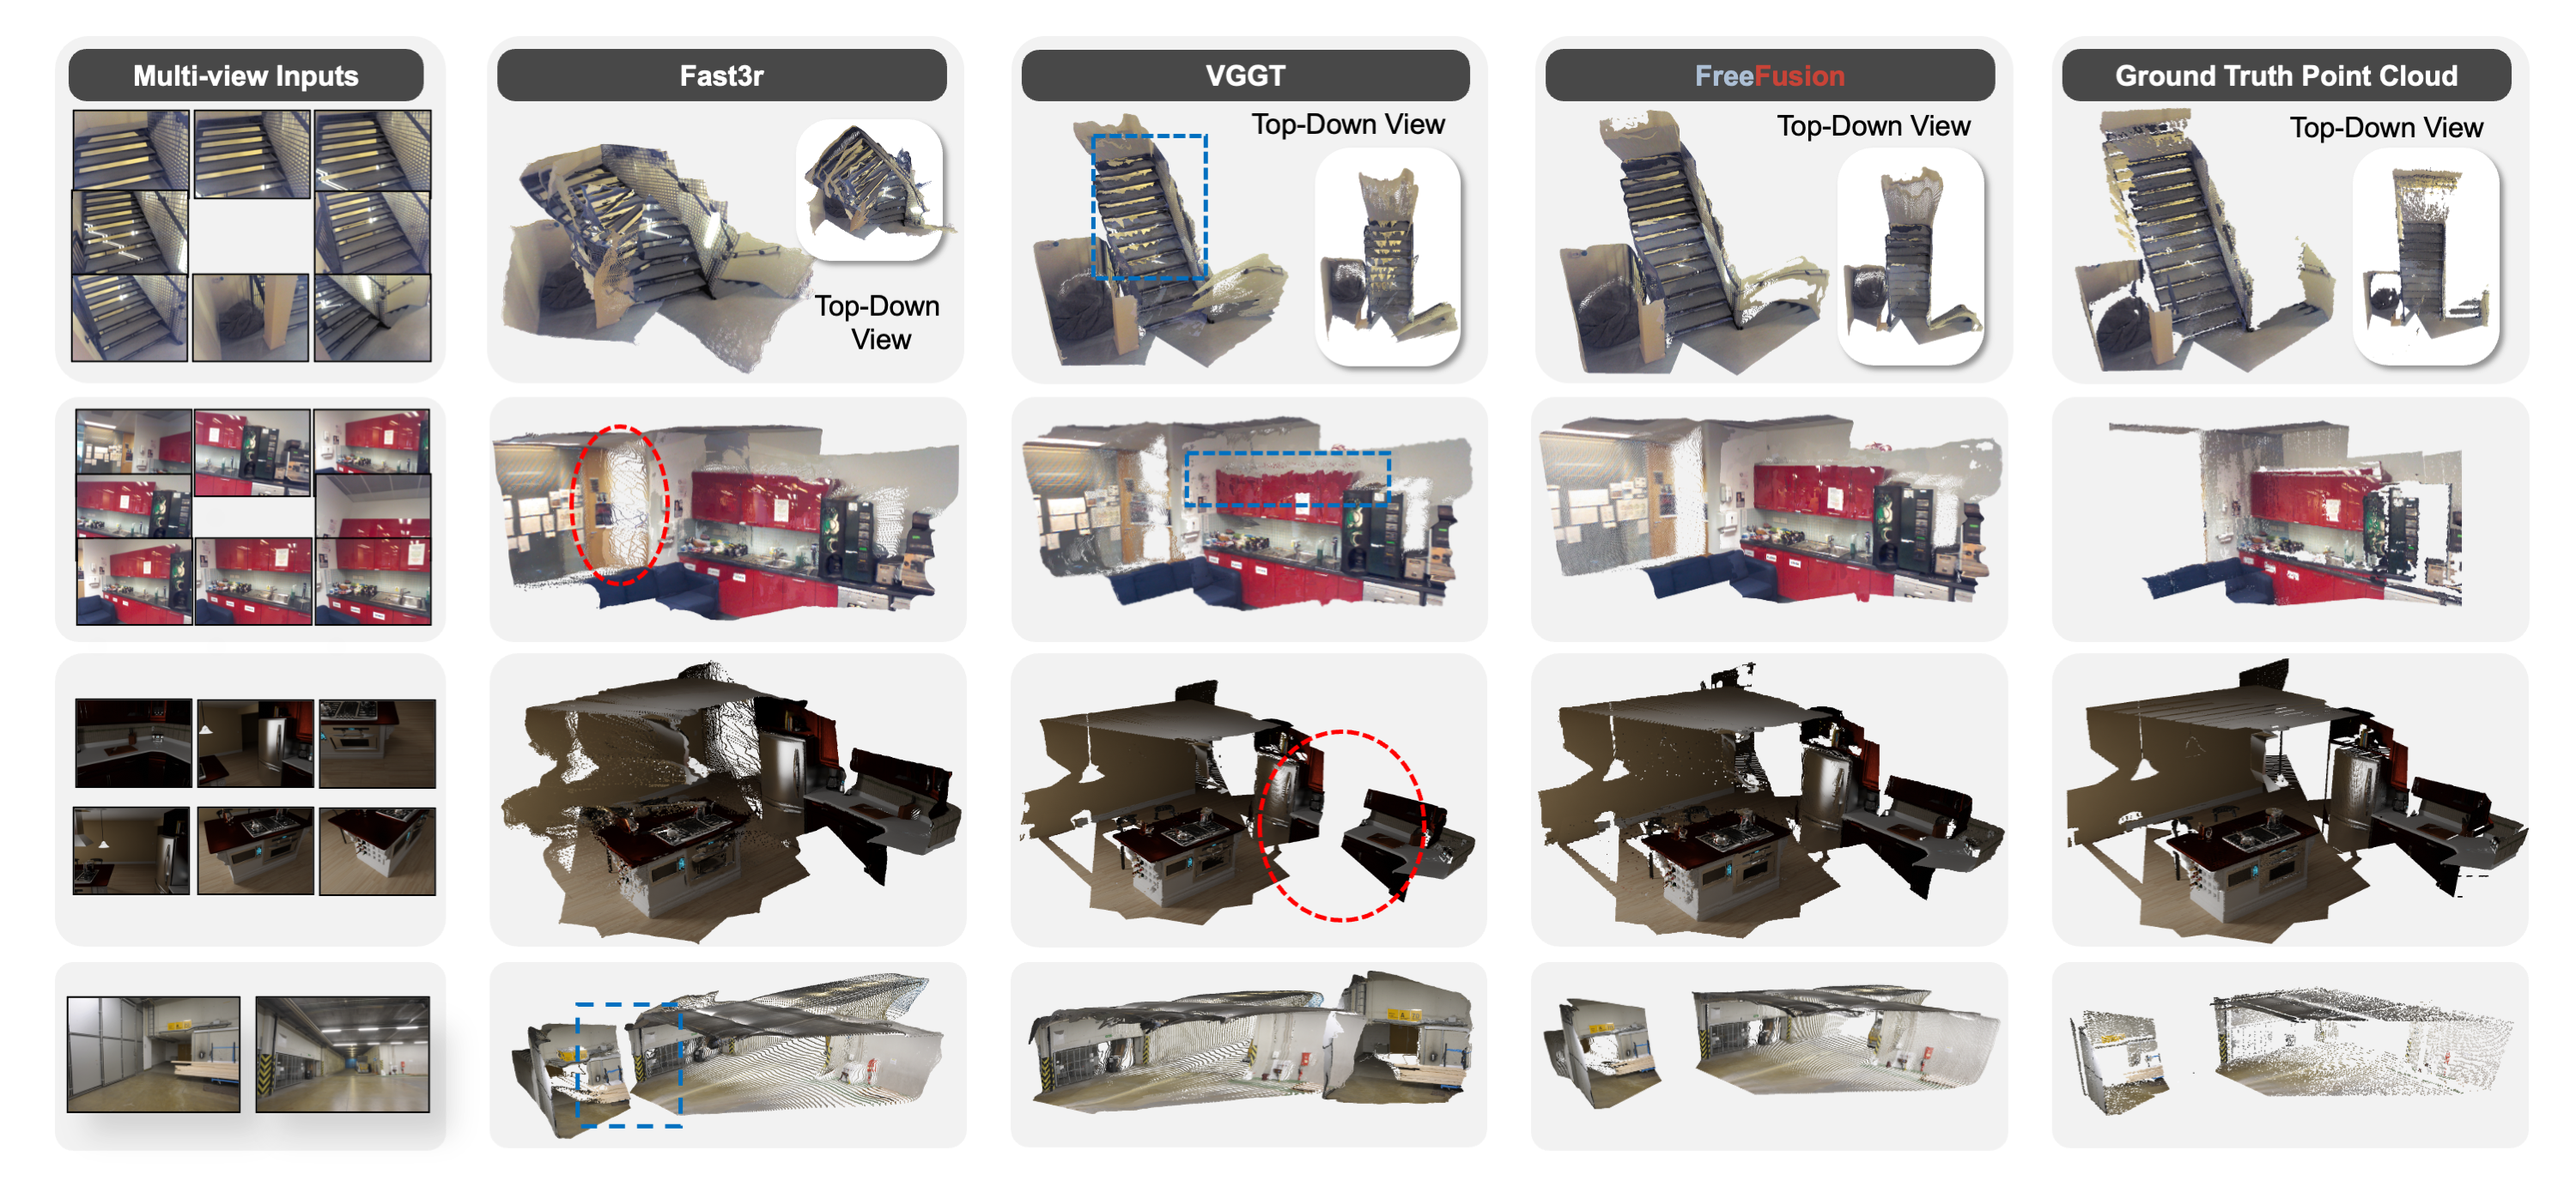
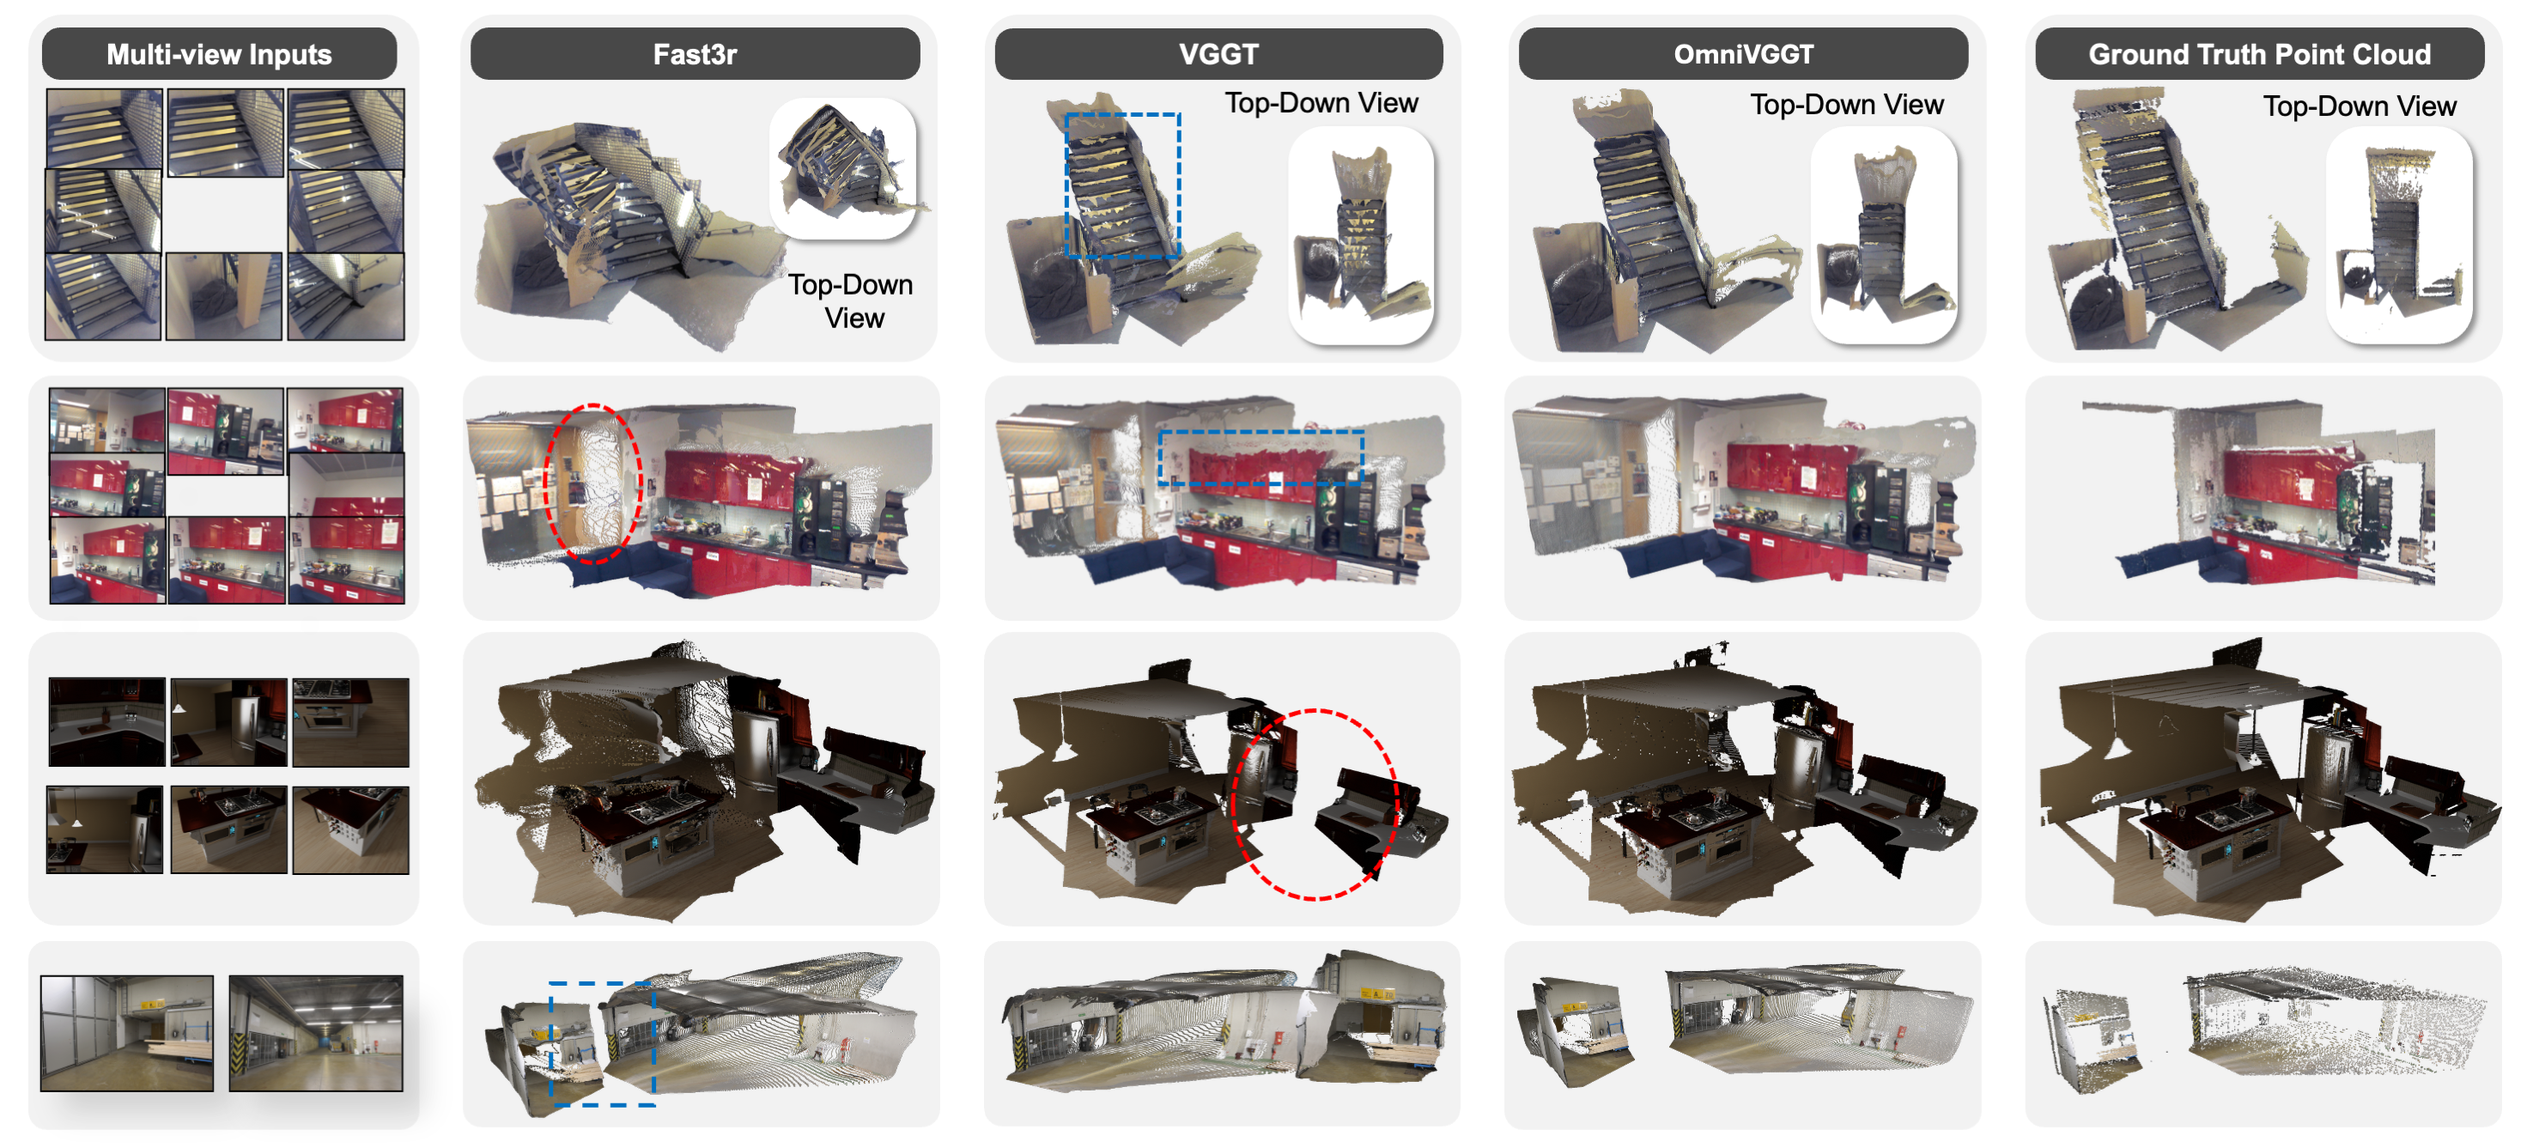
update name

diff --git a/index.html b/index.html
@@ -3,7 +3,7 @@
 <head>
     <meta charset="UTF-8">
     <meta name="viewport" content="width=device-width, initial-scale=1.0">
-    <title>FreeFusion: Free Lunch from Auxiliary Inputs for 3D Reconstruction</title>
+    <title>OmniVGGT: Omni-Modality Driven Visual Geometry Grounded Transformer</title>
     <link rel="icon" type="image/png" href="images/icon.png">
     <!-- Model Viewer for 3D visualization -->
     <script type="module" src="https://ajax.googleapis.com/ajax/libs/model-viewer/3.5.0/model-viewer.min.js"></script>
@@ -1013,10 +1013,10 @@
     <div class="container">
         <header>
             <div class="logo-container">
-                <img src="images/logo.png" alt="FreeFusion Logo" style="max-width: 200px; height: auto;">
+                <img src="images/logo.png" alt="OmniVGGT Logo" style="max-width: 200px; height: auto;">
             </div>
             <h1>
-                <span class="project-name"><span style="color: rgb(38, 89, 146);">Free</span><span style="color: rgb(199, 64, 52);">Fusion</span></span><span class="title-divider">:</span> Free Lunch from Auxiliary Inputs for 3D Reconstruction
+                <span class="project-name"><span style="color: rgb(38, 89, 146);">Omni</span><span style="color: rgb(199, 64, 52);">VGGT</span></span><span class="title-divider">:</span> Omni-Modality Driven Visual Geometry Grounded Transformer
             </h1>
             
             
@@ -1072,14 +1072,14 @@
                 <div class="highlight-box">
                     <p style="font-size: 1.1em; line-height: 1.8;">
                         General 3D foundation models have started to lead the trend of unifying diverse vision tasks, yet most assume RGB-only inputs and ignore readily available geometric cues (e.g., camera intrinsics, poses, and depth maps). 
-                        To address this issue, we introduce FreeFusion, a novel framework that can effectively benefit from an arbitrary number of auxiliary geometric modalities during both training and inference.
+                        To address this issue, we introduce OmniVGGT, a novel framework that can effectively benefit from an arbitrary number of auxiliary geometric modalities during both training and inference.
                         In our framework, a <strong>GeoAdapter</strong> is proposed to encode depth and camera intrinsics/extrinsics into a spatial foundation model.
                         It employs zero-initialized convolutions to progressively inject geometric information without disrupting the foundation model's representation space. 
                         Additionally, a <strong>Stochastic Multimodal Fusion</strong> regimen is proposed, which randomly samples modality subsets per instance during training. 
                         This enables an arbitrary number of modality inputs during testing and promotes learning robust spatial representations instead of overfitting to auxiliary cues. 
-                        Comprehensive experiments on several downstream tasks demonstrate that FreeFusion outperforms prior methods with auxiliary inputs and achieves state-of-the-art results even with RGB-only input. 
-                        To further highlight its practical utility, we integrated FreeFusion into <strong>vision-language-action (VLA) models</strong>. 
-                        The enhanced VLA model by FreeFusion achieves state-of-the-art performance across three simulation benchmarks and real-world manipulation tasks, showcasing strong robustness to clutter, spatial prompts, height awareness, and scale variation.
+                        Comprehensive experiments on several downstream tasks demonstrate that OmniVGGT outperforms prior methods with auxiliary inputs and achieves state-of-the-art results even with RGB-only input. 
+                        To further highlight its practical utility, we integrated OmniVGGT into <strong>vision-language-action (VLA) models</strong>. 
+                        The enhanced VLA model by OmniVGGT achieves state-of-the-art performance across three simulation benchmarks and real-world manipulation tasks, showcasing strong robustness to clutter, spatial prompts, height awareness, and scale variation.
                     </p>
                 </div>
             </div>
@@ -1089,7 +1089,7 @@
                 <div class="demo-container">
                     <img src="images/teaser.png" alt="Teaser">
                     <p class="image-caption">
-                        FreeFusion, a model that can effectively benefit from an arbitrary number of auxiliary geometric modalities during both training and inference.
+                        OmniVGGT, a model that can effectively benefit from an arbitrary number of auxiliary geometric modalities during both training and inference.
                     </p>
                 </div>
                 
@@ -1101,15 +1101,15 @@
                 <div class="feature-grid">
                     <div class="feature-card">
                         <h3>🔧 GeoAdapter for Stochastic Multimodal Inputs</h3>
-                        <p>FreeFusion uses a light-weight GeoAdapter that supports arbitrary numbers of input images, auxiliary modalities, and their combinations.</p>
+                        <p>OmniVGGT uses a light-weight GeoAdapter that supports arbitrary numbers of input images, auxiliary modalities, and their combinations.</p>
                     </div>
                     <div class="feature-card">
                         <h3>📊 Stochastic Multimodal Fusion</h3>
-                        <p>We adopt a rule-based stochastic training strategy for FreeFusion, ensuring its robustness and generalization when receiving varying numbers and combinations of modalities at test time.</p>
+                        <p>We adopt a rule-based stochastic training strategy for OmniVGGT, ensuring its robustness and generalization when receiving varying numbers and combinations of modalities at test time.</p>
                     </div>
                     <div class="feature-card">
                         <h3>🔌 Enhancing VLA Model Performance</h3>
-                        <p>We integrate FreeFusion with vision-language-action (VLA) models. Additional auxiliary information provides the VLA model with richer spatial understanding, thereby improving its success rate across various VLA tasks.</p>
+                        <p>We integrate OmniVGGT with vision-language-action (VLA) models. Additional auxiliary information provides the VLA model with richer spatial understanding, thereby improving its success rate across various VLA tasks.</p>
                     </div>
                 </div>
             </div>
@@ -1118,16 +1118,16 @@
             <div class="section">
                 <h2 class="section-title">Architecture</h2>
                 <div class="demo-container">
-                    <img src="images/overview.png" alt="FreeFusion Framework">
+                    <img src="images/overview.png" alt="OmniVGGT Framework">
                     <p class="image-caption">
-                        Overview of FreeFusion. 
+                        Overview of OmniVGGT. 
                     </p>
                 </div>
 
                 <div class="architecture-section">
                     <p>
                     Our goal is to design an enhanced spatial foundation model that not only reconstructs scenes from images but also accepts an arbitrary number of corresponding camera parameters and depth information as auxiliary inputs to guide more accurate 3D scene reconstruction.
-                    FreeFusion takes as input a set of images together with an arbitrary number of corresponding camera parameters (extrinsics and intrinsics) or depth maps. 
+                    OmniVGGT takes as input a set of images together with an arbitrary number of corresponding camera parameters (extrinsics and intrinsics) or depth maps. 
                     Camera placeholder tokens and depth placeholder tokens are used to substitute the tokens for which ground-truth information is missing. 
                     The inputs are processed through <i>L</i> layers of Alternating-Attention, and finally, three prediction heads are employed to output depth maps, camera poses, and 3D point maps.
                     </p>
@@ -1214,7 +1214,7 @@
                 <h2 class="section-title">More Interactive Visualization</h2>
                 <div class="interactive-vis-container">
                     <p class="vis-intro">
-                        FreeFusion reconstruction on diverse scenes. Click any thumbnail below to explore its 3D reconstruction and point cloud visualization.<br>
+                        OmniVGGT reconstruction on diverse scenes. Click any thumbnail below to explore its 3D reconstruction and point cloud visualization.<br>
                         <span style="font-size: 0.95em; color: #667eea;">💡 Hover over thumbnails to preview their image sequences</span>
                     </p>
 
@@ -1262,7 +1262,7 @@
                 <div class="results-section">
                     <div class="highlight-box">
                         <p style="font-size: 1.1em; font-weight: 600;">
-                            FreeFusion flexibly accommodates casual inputs, including arbitrary numbers of images, auxiliary information, and input combinations. 
+                            OmniVGGT flexibly accommodates casual inputs, including arbitrary numbers of images, auxiliary information, and input combinations. 
                             It achieves state-of-the-art performance across multiple tasks, such as <strong>dense reconstruction</strong>, <strong>multi-view depth estimation</strong>, <strong>camera pose estimation</strong>, and <strong>vision-language-action</strong>, while maintaining high inference efficiency. 
                         </p>
                     </div>
@@ -1276,19 +1276,19 @@
 
                     <div class="highlight-box">
                         <p style="font-size: 1.1em;">
-                            FreeFusion consistently outperforms VGGT even without auxiliary inputs, and all relevant metrics improve when different percentages of camera and depth information are provided. 
+                            OmniVGGT consistently outperforms VGGT even without auxiliary inputs, and all relevant metrics improve when different percentages of camera and depth information are provided. 
                     </div>
 
                     <div class="demo-container" style="margin: 40px 0;">
                         <img src="images/ablation.png" alt="Spatial Tracking">
                         <p class="image-caption">
-                            Visual Results of FreeFusion with Different Auxiliary Information.
+                            Visual Results of OmniVGGT with Different Auxiliary Information.
                         </p>
                     </div>
 
                     <div class="highlight-box">
                         <p style="font-size: 1.1em;">
-                            By exploiting auxiliary information, FreeFusion is capable of accurately reconstructing complex and highly challenging geometric environments. <br>
+                            By exploiting auxiliary information, OmniVGGT is capable of accurately reconstructing complex and highly challenging geometric environments. <br>
                             <strong>(Top)</strong> Camera pose and intrinsic information help correct challenging views with little or no overlap. <br>
                             <strong>(Middle)</strong> Providing depth information leads to more accurate local geometry, such as on door surfaces. <br> 
                             <strong>(Bottom)</strong> When both depth and camera information are provided, the relative distances and viewing angles are properly corrected.
@@ -1299,7 +1299,7 @@
                         <img src="images/visualization1.png" alt="Visualization1">
                         <p class="image-caption">
                             Visual Comparisons on 7-Scenes, NRGBD, and ETH3D datasets. <br>
-                            FreeFusion exhibits accurate spatial relationships and geometric consistency, even in extremely challenging cases. 
+                            OmniVGGT exhibits accurate spatial relationships and geometric consistency, even in extremely challenging cases. 
                         </p>
                     </div>
 
@@ -1329,8 +1329,8 @@
         </div>
 
         <footer>
-            <p>© 2025 FreeFusion Project | HKUST, NTU, SYSU, Alibaba Group</p>
-            <p style="margin-top: 10px; opacity: 0.8;">A Free Lunch from Auxiliary Inputs for 3D Reconstruction</p>
+            <p>© 2025 OmniVGGT Project | HKUST, NTU, SYSU, Alibaba Group</p>
+            <p style="margin-top: 10px; opacity: 0.8;">Omni-Modality Driven Visual Geometry Grounded Transformer</p>
         </footer>
     </div>
 
